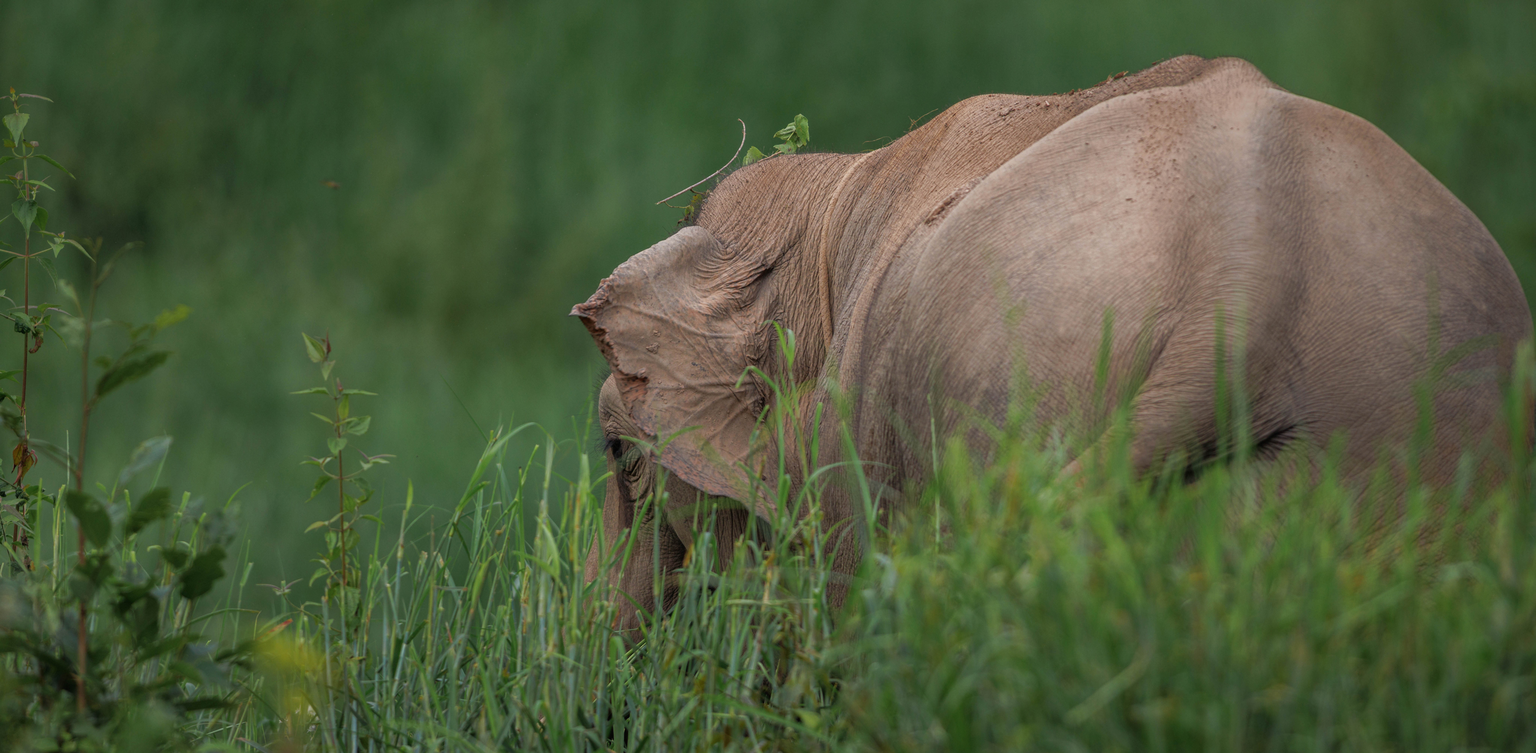
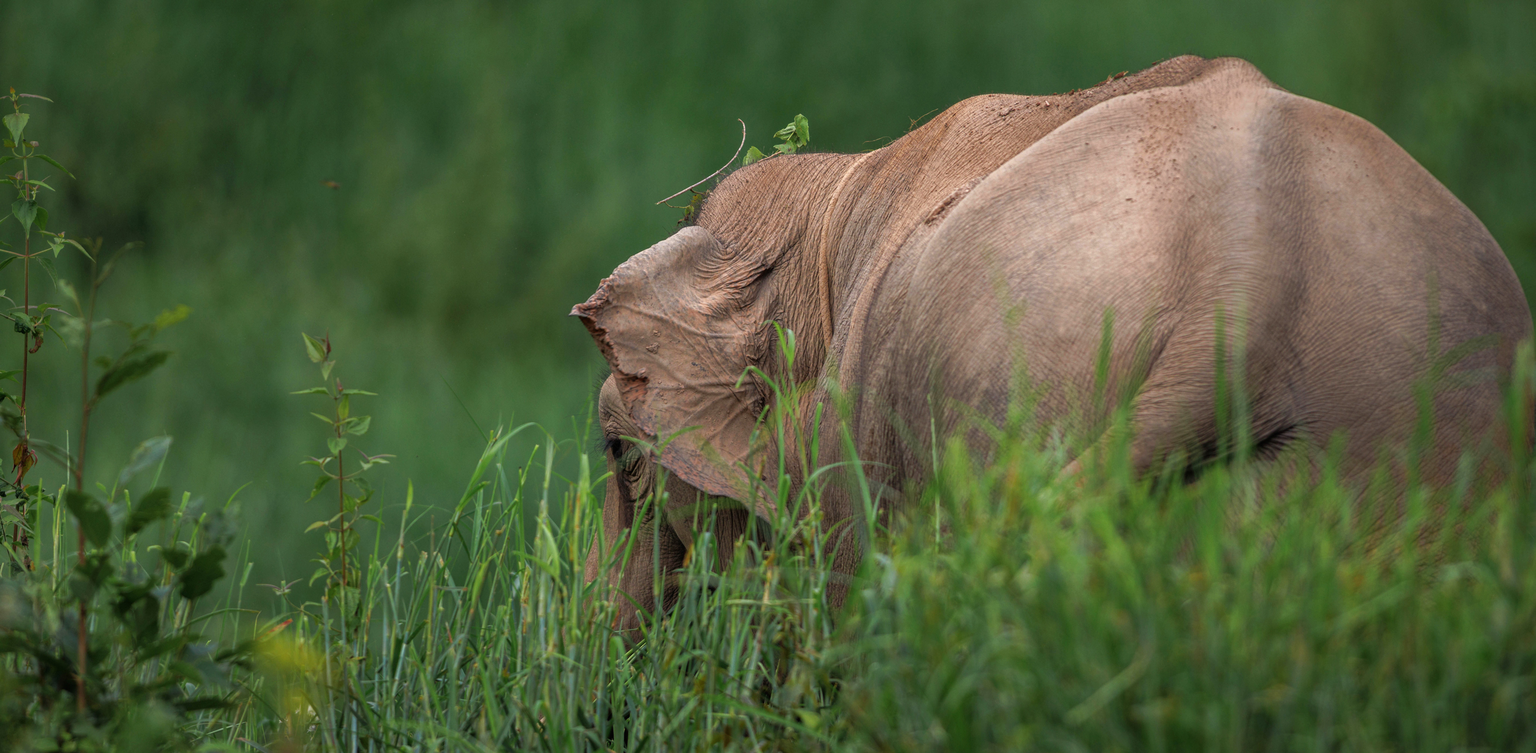
fixes

diff --git a/data/nolka.js b/data/nolka.js
@@ -17,7 +17,7 @@ var NOLKA_DATA = {
       "Swan_Dive.jpg",
       "Swan_After_the_Drink.jpg",
       "BoonRott_KSES.jpg",
-      "Junior_KSES.jpg.jpg",
+      "Junior_KSES.jpg",
       "Fake_Stork-Real_Stork.jpg",
       "Kruger_Snowy-Egret.jpg",
       "Blue_Kingfisher_Thorn.jpg",
@@ -90,9 +90,9 @@ var NOLKA_DATA = {
       "Summer_jump.jpg",
       "Cliffing.jpg",
       "Snowball_Anonymous.jpg",
+      "Pakinyaw_cigarette.jpg",
       "Watchtower.jpg",
       "Deva-Before_the_First_Note.jpg",
-      "Pakinyaw_cigarette.jpg",
       "Neon_Duality.jpg",
       "Blue_Neon.jpg",
       "Kirill-Ulianichev.jpg",
@@ -107,8 +107,8 @@ var NOLKA_DATA = {
       "JulijaZandersone.jpeg",
       "Rodrygo_Feitoza.jpg",
       "Creppy_Reka01.jpg",
-      "ShortParis_Concert02.jpg",
       "Muay_reflections.jpg",
+      "ShortParis_Concert02.jpg",
       "Yarik.jpg",
       "Sistrushka.jpg",
       "Mamushka.jpg",
